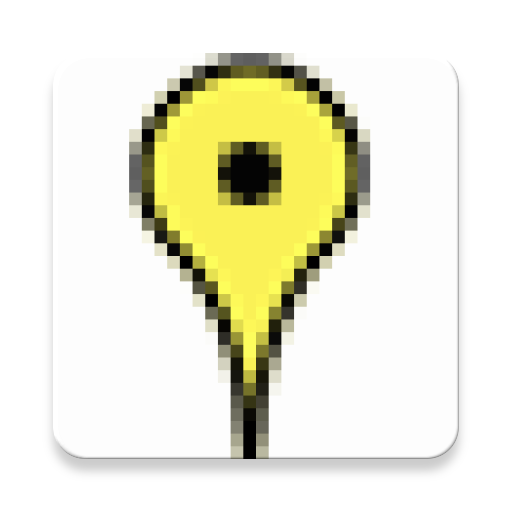
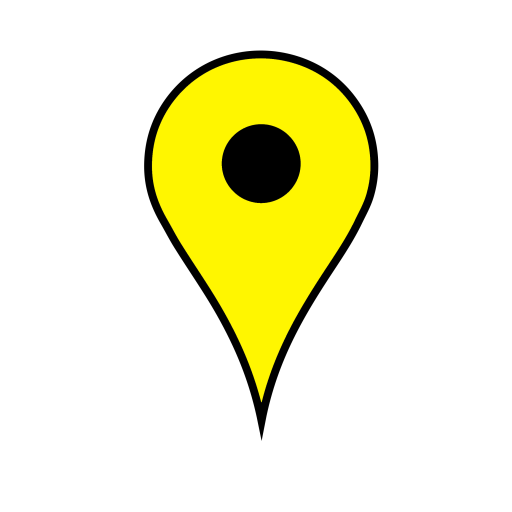
se cambiaron los marcadores

Changed region(s): [[0.0938, 0.0938, 0.9062, 0.9375]]

diff --git a/App/src/main/java/com/monitoreo/agua/android/MainActivity.java b/App/src/main/java/com/monitoreo/agua/android/MainActivity.java
@@ -17,7 +17,6 @@ import android.support.multidex.MultiDex;
 import android.support.v4.app.ActivityCompat;
 import android.support.v7.app.AlertDialog;
 import android.view.View;
-import android.widget.RelativeLayout;
 import android.widget.TextView;
 import android.widget.Toast;
 
@@ -41,9 +40,7 @@ import org.json.JSONArray;
 import org.json.JSONException;
 import org.json.JSONObject;
 
-import java.util.ArrayList;
 import java.util.HashMap;
-import java.util.List;
 import java.util.Map;
 
 import static com.monitoreo.agua.android.R.id.map;
@@ -54,6 +51,8 @@ public class MainActivity extends Navigation
     //variables del mapa
     private GoogleMap mMap;//mapa a mostrar
     Map<String, String> idColor;
+    HashMap<String,Integer> colorsRes;
+
 
     //Marcadores para aritmetica de puntos
     Marker first;
@@ -97,6 +96,8 @@ public class MainActivity extends Navigation
         idColor = new HashMap<String, String>();
         isMapReady = false;
         filtros_b = false;
+        colorsRes = new HashMap<>();//dado un color retorna un id de Resourse
+        agregarColores();//se agregan los colores al hashmap
 
         //evento asociado al fab button
         FloatingActionButton fab = (FloatingActionButton) findViewById(R.id.fab);
@@ -127,6 +128,17 @@ public class MainActivity extends Navigation
     }
 
 
+    //Funcion que completa el hash para utilizarlo con los valores de color que vienen de la BD.
+    private void agregarColores() {
+        colorsRes.put("Gris",R.mipmap.gris);
+        colorsRes.put("Azul",R.mipmap.azul);
+        colorsRes.put("Verde",R.mipmap.verde);
+        colorsRes.put("Anaranjado",R.mipmap.anaranjado);
+        colorsRes.put("Amarillo",R.mipmap.amarillo);
+        colorsRes.put("Rojo",R.mipmap.rojo);
+    }
+
+
     //Metodo utilizado para iniciar el proceso de solicitud de ubicación
     private void atachLocationListener() {
         locationManager = (LocationManager) getSystemService(Context.LOCATION_SERVICE);
@@ -154,7 +166,6 @@ public class MainActivity extends Navigation
         //mMap.animateCamera(CameraUpdateFactory.newLatLngZoom(costaRica, 13));
         String file = "getMarkers_busqueda.php"; //temporal solo de ejemplo.
         mMap.getUiSettings().setMapToolbarEnabled(false); //se desabilita redirección a google maps
-        //mMap.getUiSettings().setMyLocationButtonEnabled(true); //habilita myLocation buttom
         //al momento de llegar aquí puede ser la creación normal de la actividad o puede venirse de activity filter en cuyo caso trae parametros.
         Intent intent = getIntent();
         Bundle extras = intent.getExtras();
@@ -201,7 +212,8 @@ public class MainActivity extends Navigation
                         //lo que se desea hacer en caso de error
                         loadingDialog.hide();
                         Toast.makeText(MainActivity.this, getString(R.string.no_markers), Toast.LENGTH_LONG).show();
-/*                        new AlertDialog.Builder(MainActivity.this)
+                        //Esto se necesita para que si falla se tenga la posibilidad de recargar
+                        /*new AlertDialog.Builder(MainActivity.this)
                                 .setMessage(getString(R.string.recargarMain))
                                 .setCancelable(false)
                                 .setPositiveButton(getString(R.string.recargarMain), new DialogInterface.OnClickListener() {
@@ -246,16 +258,10 @@ public class MainActivity extends Navigation
                 String id = response.getJSONObject(i).getString("id");
                 String title = response.getJSONObject(i).getString("_id");
                 Marker marker= mMap.addMarker(new MarkerOptions().position(position).title(title));
-                BitmapDescriptor icon;
-                if(color.equals("Gris")){
-                    icon = BitmapDescriptorFactory.fromResource(R.mipmap.gray_marker);
-                }else{
-                    icon = BitmapDescriptorFactory.defaultMarker(getColor(color));
-                }
+                BitmapDescriptor icon = BitmapDescriptorFactory.fromResource(colorsRes.get(color));
                 marker.setIcon(icon);
                 marker.setTag(id);
                 idColor.put(id,color);
-                //markers.add(Integer.getInteger(id),marker);
             }catch (Exception e){
 
             }
@@ -278,21 +284,12 @@ public class MainActivity extends Navigation
                 if(contadorClics>0){
                     //El getTag obtiene un identificador del marcador y BD
                     //se agregó el cambio de marcador para el caso de gris que es el único que es un recurso externo
-                    BitmapDescriptor icon1;
-                    if(idColor.get(first.getTag()).equals("Gris")){
-                        icon1 = BitmapDescriptorFactory.fromResource(R.mipmap.gray_marker);
-                    }else{
-                        icon1 = BitmapDescriptorFactory.defaultMarker(getColor(idColor.get(first.getTag())));
-                    }
+                    BitmapDescriptor icon1 = BitmapDescriptorFactory.fromResource(colorsRes.get(idColor.get(first.getTag())));
                     first.setIcon(icon1);
                     if(contadorClics==2){
                         //se agregó el cambio de marcador para el caso de gris que es el único que es un recurso externo
-                        BitmapDescriptor icon2;
-                        if(idColor.get(second.getTag()).equals("Gris")){
-                            icon2 = BitmapDescriptorFactory.fromResource(R.mipmap.gray_marker);
-                        }else{
-                            icon2 = BitmapDescriptorFactory.defaultMarker(getColor(idColor.get(second.getTag())));
-                        }
+                        BitmapDescriptor icon2 = BitmapDescriptorFactory.fromResource(colorsRes.get(idColor.get(second.getTag())));
+
                         second.setIcon(icon2);
                     }
                     contadorClics=0;
@@ -326,7 +323,7 @@ public class MainActivity extends Navigation
                     return view;
                 }else{//si estamos en aritmetica. Si la cantidad de clics es 1 (0,1) indica que se han seleccionado dos marcadores.
                     if(contadorClics<2){
-                        BitmapDescriptor iconColor = BitmapDescriptorFactory.defaultMarker(getColor("rose"));
+                        BitmapDescriptor iconColor = BitmapDescriptorFactory.fromResource(R.mipmap.aritmetica);
                         if(contadorClics==0){//es el primer marcador en ser seleccionado.
                             btnWindows.setText(String.valueOf(getString(R.string.seleccionar_otro)));
                             first=marker;
@@ -346,18 +343,9 @@ public class MainActivity extends Navigation
                     }else{
                         contadorClics=0;
                         //se agregó el cambio de marcador para el caso de gris que es el único que es un recurso externo
-                        BitmapDescriptor icon1;
-                        if(idColor.get(first.getTag()).equals("Gris")){
-                            icon1 = BitmapDescriptorFactory.fromResource(R.mipmap.gray_marker);
-                        }else{
-                            icon1 = BitmapDescriptorFactory.defaultMarker(getColor(idColor.get(first.getTag())));
-                        }
-                        BitmapDescriptor icon2;
-                        if(idColor.get(second.getTag()).equals("Gris")){
-                            icon2 = BitmapDescriptorFactory.fromResource(R.mipmap.gray_marker);
-                        }else{
-                            icon2 = BitmapDescriptorFactory.defaultMarker(getColor(idColor.get(second.getTag())));
-                        }
+                        BitmapDescriptor icon1 = BitmapDescriptorFactory.fromResource(colorsRes.get(idColor.get(first.getTag())));
+                        BitmapDescriptor icon2 = BitmapDescriptorFactory.fromResource(colorsRes.get(idColor.get(second.getTag())));
+
                         first.setIcon(icon1);
                         second.setIcon(icon2);
                         return getInfoContents(marker);
@@ -390,7 +378,7 @@ public class MainActivity extends Navigation
         isMapReady=true;
     }
 
-    //Colores asociados a cada tipo de indice
+/*    //Colores asociados a cada tipo de indice
     private int getColor(String color) {
         switch (color) {
             case "Azul":
@@ -408,7 +396,7 @@ public class MainActivity extends Navigation
             default:
                 return 300;
         }
-    }
+    }*/
 
     //retorna verdadero en caso de existir conexión a internet
     public boolean isOnline() {
